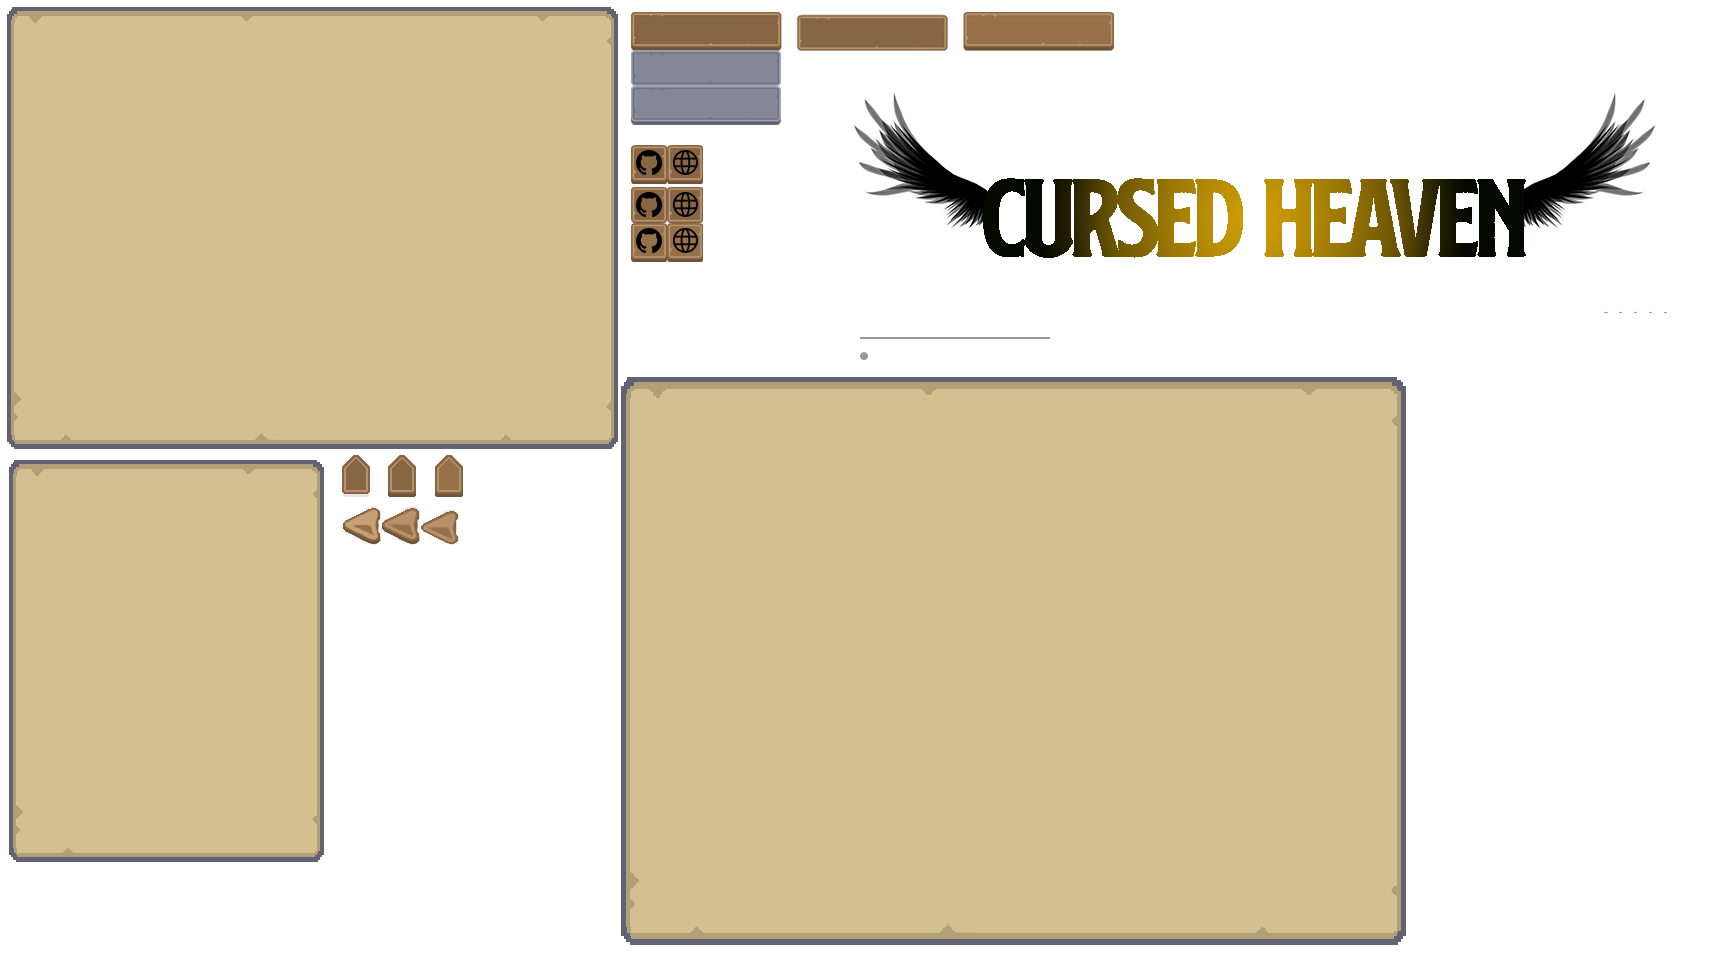
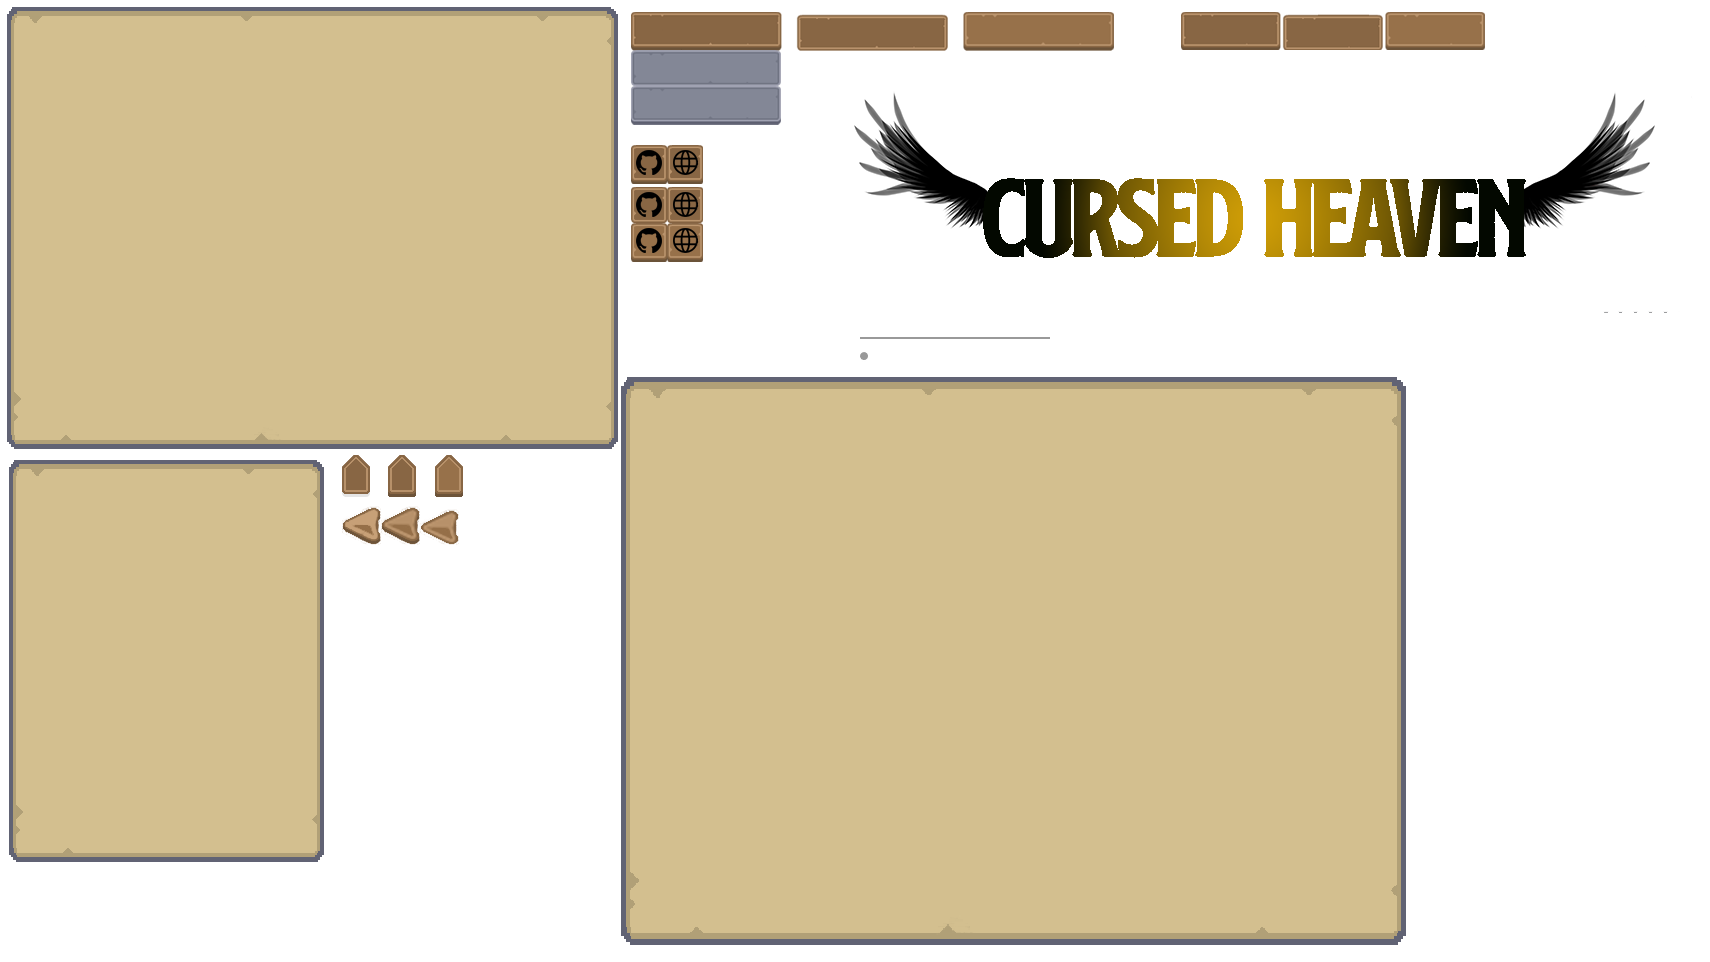
added save button to the ingame menu

Changed region(s): [[0.6819, 0.0, 0.8678, 0.0624]]

diff --git a/CursedHeaven/Motor2D/j1Scene2.cpp b/CursedHeaven/Motor2D/j1Scene2.cpp
@@ -98,6 +98,10 @@ bool j1Scene2::Start() {
 		SDL_Rect hovered = { 963, 12, 151, 38 };
 		SDL_Rect clicked = { 797, 14, 151, 37 };
 
+		SDL_Rect idle2 = { 1181, 12, 99, 38 };
+		SDL_Rect hovered2 = { 1386, 12, 99, 38 };
+		SDL_Rect clicked2 = { 1283, 12, 99, 38 };
+
 		SDL_Rect slider_r = { 860,334,180,5 };
 		App->gui->CreateButton(&scene2Buttons, BUTTON, 20, 65, slider_r, slider_r, slider_r, gui_tex, NO_FUNCTION, (j1UserInterfaceElement*)settings_window);
 		App->gui->CreateButton(&scene2Buttons, BUTTON, 20, 100, slider_r, slider_r, slider_r,  gui_tex, NO_FUNCTION, (j1UserInterfaceElement*)settings_window);
@@ -105,14 +109,16 @@ bool j1Scene2::Start() {
 		App->gui->CreateBox(&scene2Boxes, BOX, 50, 55, { 388, 455, 28, 42 }, gui_tex, (j1UserInterfaceElement*)settings_window, 20, 92);
 		App->gui->CreateBox(&scene2Boxes, BOX, 50, 90, { 388, 455, 28, 42 }, gui_tex, (j1UserInterfaceElement*)settings_window, 20, 92);
 
-		App->gui->CreateButton(&scene2Buttons, BUTTON, 30, 20, idle, hovered, clicked, gui_tex, CLOSE_SETTINGS, (j1UserInterfaceElement*)settings_window);
+		App->gui->CreateButton(&scene2Buttons, BUTTON, 10, 20, idle2, hovered2, clicked2, gui_tex, CLOSE_SETTINGS, (j1UserInterfaceElement*)settings_window);
+		App->gui->CreateButton(&scene2Buttons, BUTTON, 70, 20, idle2, hovered2, clicked2, gui_tex, SAVE_GAME, (j1UserInterfaceElement*)settings_window);
 
 		App->gui->CreateButton(&scene2Buttons, BUTTON, 30, 120, idle, hovered, clicked, gui_tex, GO_TO_MENU, (j1UserInterfaceElement*)settings_window);
 
 		App->gui->CreateLabel(&scene2Labels, LABEL, 25, 40, App->gui->font2, "SOUND", App->gui->brown, (j1UserInterfaceElement*)settings_window);
 		App->gui->CreateLabel(&scene2Labels, LABEL, 25, 75, App->gui->font2, "MUSIC", App->gui->brown, (j1UserInterfaceElement*)settings_window);
 		App->gui->CreateLabel(&scene2Labels, LABEL, 48, 122, App->gui->font2, "MAIN MENU", App->gui->beige, (j1UserInterfaceElement*)settings_window);
-		App->gui->CreateLabel(&scene2Labels, LABEL, 50, 22, App->gui->font2, "RESUME", App->gui->beige, (j1UserInterfaceElement*)settings_window);
+		App->gui->CreateLabel(&scene2Labels, LABEL, 20, 22, App->gui->font2, "RESUME", App->gui->beige, (j1UserInterfaceElement*)settings_window);
+		App->gui->CreateLabel(&scene2Labels, LABEL, 83, 22, App->gui->font2, "SAVE", App->gui->beige, (j1UserInterfaceElement*)settings_window);
 		
 		PlaceEntities(6);
 		App->shop->PlaceShopScene2();

diff --git a/CursedHeaven/Motor2D/j1Scene1.cpp b/CursedHeaven/Motor2D/j1Scene1.cpp
@@ -99,6 +99,10 @@ bool j1Scene1::Start()
 		SDL_Rect hovered = { 963, 12, 151, 38 };
 		SDL_Rect clicked = { 797, 14, 151, 37 };
 
+		SDL_Rect idle2 = { 1181, 12, 99, 38 };
+		SDL_Rect hovered2 = { 1386, 12, 99, 38 };
+		SDL_Rect clicked2 = { 1283, 12, 99, 38 };
+
 		SDL_Rect slider_r = { 860,334,180,5 };
 		App->gui->CreateButton(&scene1Buttons, BUTTON, 20, 65, slider_r, slider_r, slider_r, gui_tex, NO_FUNCTION, (j1UserInterfaceElement*)settings_window);
 		App->gui->CreateButton(&scene1Buttons, BUTTON, 20, 100, slider_r, slider_r, slider_r, gui_tex, NO_FUNCTION, (j1UserInterfaceElement*)settings_window);
@@ -106,14 +110,16 @@ bool j1Scene1::Start()
 		App->gui->CreateBox(&scene1Boxes, BOX, 50, 55, { 388, 455, 28, 42 }, gui_tex, (j1UserInterfaceElement*)settings_window, 20, 92);
 		App->gui->CreateBox(&scene1Boxes, BOX, 50, 90, { 388, 455, 28, 42 }, gui_tex, (j1UserInterfaceElement*)settings_window, 20, 92);
 
-		App->gui->CreateButton(&scene1Buttons, BUTTON, 30, 20, idle, hovered, clicked, gui_tex, CLOSE_SETTINGS, (j1UserInterfaceElement*)settings_window);
+		App->gui->CreateButton(&scene1Buttons, BUTTON, 10, 20, idle2, hovered2, clicked2, gui_tex, CLOSE_SETTINGS, (j1UserInterfaceElement*)settings_window);
+		App->gui->CreateButton(&scene1Buttons, BUTTON, 70, 20, idle2, hovered2, clicked2, gui_tex, SAVE_GAME, (j1UserInterfaceElement*)settings_window);
 
 		App->gui->CreateButton(&scene1Buttons, BUTTON, 30, 120, idle, hovered, clicked, gui_tex, GO_TO_MENU, (j1UserInterfaceElement*)settings_window);
 
 		App->gui->CreateLabel(&scene1Labels, LABEL, 25, 40, App->gui->font2, "SOUND", App->gui->brown, (j1UserInterfaceElement*)settings_window);
 		App->gui->CreateLabel(&scene1Labels, LABEL, 25, 75, App->gui->font2, "MUSIC", App->gui->brown, (j1UserInterfaceElement*)settings_window);
 		App->gui->CreateLabel(&scene1Labels, LABEL, 48, 122, App->gui->font2, "MAIN MENU", App->gui->beige, (j1UserInterfaceElement*)settings_window);
-		App->gui->CreateLabel(&scene1Labels, LABEL, 50, 22, App->gui->font2, "RESUME", App->gui->beige, (j1UserInterfaceElement*)settings_window);
+		App->gui->CreateLabel(&scene1Labels, LABEL, 20, 22, App->gui->font2, "RESUME", App->gui->beige, (j1UserInterfaceElement*)settings_window);
+		App->gui->CreateLabel(&scene1Labels, LABEL, 83, 22, App->gui->font2, "SAVE", App->gui->beige, (j1UserInterfaceElement*)settings_window);
 
 		PlaceEntities(6);
 		App->shop->PlaceShopScene1();

diff --git a/CursedHeaven/Motor2D/j1Turret.cpp b/CursedHeaven/Motor2D/j1Turret.cpp
@@ -171,12 +171,12 @@ void j1Turret::OnCollision(Collider * col_1, Collider * col_2)
 			int item = rand() % 10 + 1;
 
 			if (item > 7) {
-				App->entity->AddItem(position.x - 10, position.y - 10, LIFE);
-				App->entity->AddItem(position.x + 20, position.y, LIFE);
-				App->entity->AddItem(position.x - 20, position.y + 20, LIFE);
+				App->entity->AddItem(position.x - 5, position.y - 5, LIFE);
+				App->entity->AddItem(position.x + 5, position.y, LIFE);
+				App->entity->AddItem(position.x - 5, position.y + 5, LIFE);
 			}
 			else {
-				App->entity->AddItem(position.x - 10, position.y, COIN);
+				App->entity->AddItem(position.x - 5, position.y, COIN);
 			}
 
 			for (std::list<j1Entity*>::iterator item = App->entity->entities.begin(); item != App->entity->entities.end(); ++item) {

diff --git a/CursedHeaven/Motor2D/j1Fire.cpp b/CursedHeaven/Motor2D/j1Fire.cpp
@@ -183,12 +183,12 @@ void j1Fire::OnCollision(Collider * col_1, Collider * col_2)
 			int item = rand() % 10 + 1;
 
 			if (item > 7) {
-				App->entity->AddItem(position.x - 10, position.y - 10, LIFE);
-				App->entity->AddItem(position.x + 20, position.y, LIFE);
-				App->entity->AddItem(position.x - 20, position.y + 20, LIFE);
+				App->entity->AddItem(position.x - 5, position.y - 5, LIFE);
+				App->entity->AddItem(position.x + 5, position.y, LIFE);
+				App->entity->AddItem(position.x - 5, position.y + 5, LIFE);
 			}
 			else {
-				App->entity->AddItem(position.x - 10, position.y, COIN);
+				App->entity->AddItem(position.x - 5, position.y, COIN);
 			}
 
 			for (std::list<j1Entity*>::iterator item = App->entity->entities.begin(); item != App->entity->entities.end(); ++item) {
